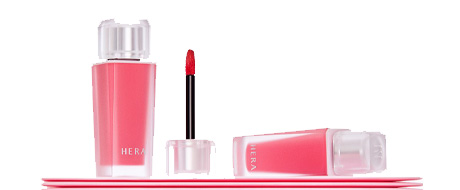
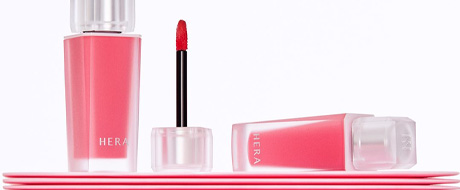
2025/07/07_메인페이지 완료

diff --git a/style/main.css b/style/main.css
@@ -49,7 +49,7 @@ main .title{
     margin-bottom: 50px;
 } /* 제목 */
 main .title h2{ font-weight: 700;}
-main .title a{transform-origin: 30%;transform-origin: 50% 60%;}
+main .title a{transform-origin: 50% 60%;}
 main .title>a>img{width: 100%;}
 main .title a:hover{transform: rotate(90deg);}
 main .best_seller .container .best_title h1{}
@@ -65,6 +65,10 @@ main .best_seller .container .best_menu a{
     width: 100%; padding: 10px;
     color: #C2C2C2;
     border-bottom: 1px solid #C2C2C2;
+}
+main .best_seller .container .best_menu a:nth-child(1){
+    color: #CBA064; font-weight: 600; font-size: 0.76rem;
+    border-bottom: 1px solid #CBA064;
 }
 main .best_seller .container .best_menu a:hover{
     color: #CBA064; font-weight: 600; font-size: 0.76rem;
@@ -131,15 +135,15 @@ main .product_bottom .product{
     margin-right: 10px; 
 }
 main .product_bottom .product:last-child{margin-right: 0;}
-main .product_bottom .product>a{overflow: hidden; margin-bottom: 5px;}
-main .product_bottom .product>a>img{width: 100%; margin-bottom: 5px;}
+main .product_bottom .product>a{overflow: hidden;width: 100%; height: 100%;}
+main .product_bottom .product>a>img{width: 100%; margin-bottom: 15px;}
 main .product_bottom .product>a:hover>img{}
 main .product_bottom .product .product_box{
     height: 109px; width: 100%;/* 아래 상품 내용 */
     position: relative; padding: 0 2px;
 }
 main .product_bottom .product .product_box .product_box_t{
-    margin-bottom: 15px;
+    /* margin-bottom: 10px; */
 }
 main .product_bottom .product .product_box>a:nth-child(2){
     position: absolute; bottom: 0;
@@ -151,7 +155,7 @@ main .product_bottom .product .product_box .product_box_t>a p{
 main .product_bottom .product .product_box_t .product_ts>a{
     display: block; font-weight: 700; text-align: left;
 }
-main .product_bottom .product .product_box{margin-bottom: 10px;}
+main .product_bottom .product .product_box{/* margin-bottom: 10px; */}
 main .product_bottom .product .product_box>a{
     display: block;
     text-align: left;
@@ -176,7 +180,7 @@ main .category{
 }
 main .category .category_name{
     width: calc((100% - 20px) / 3);
-    position: relative;
+    position: relative; overflow: hidden;
 }
 main .category .category_name span{
     position: absolute; top: 0; width: 100%; height: 100%;
@@ -184,10 +188,12 @@ main .category .category_name span{
     display: block; font-size: 1.875rem; font-weight: 700;
     background-repeat: no-repeat;
     background-position: center;
-    background-size: 100%  100%;
+    background-size: cover;
+    transform: scale(1);
+    
 }
 main .category .category_name:hover span{
-    background-size: 110%  110%;
+    transform: scale(1.1); 
 }
 main .category .category_name:hover span:nth-child(2){
     background-color: rgba(0, 0, 0, 0);
@@ -345,25 +351,22 @@ main .instagram .instagram_box .instagram_img .row a{
     margin-bottom: 10px;
     background-repeat: no-repeat;
     background-position: center;
-    background-size: 100% 100%;
-    position: relative;
-
+    background-size: cover;
+    position: relative; overflow: hidden;
 } /* 열 공통 */
 main .instagram .instagram_box .instagram_img .row a span{
     position: absolute; top: 0; left: 0;width: 100%; height: 100%;
     background-color: rgba(0, 0, 0, 0.0);
 } /* 열 공통 */
-main .instagram .instagram_box .instagram_img .row a:hover{
-    background-size: 110% 110%;
-}
+main .instagram .instagram_box .instagram_img .row a:hover{border-radius: 30px;}
 main .instagram .instagram_box .instagram_img .row a:hover span{
-    background-color: rgba(0, 0, 0, 0.3);
+    background-color: rgba(0, 0, 0, 0.2);
+    
 }
 main .instagram .instagram_box .instagram_img .row1{
-    
 } /* 열 개별 */
 main .instagram .instagram_box .instagram_img .row1 a{
-    height: calc((100% - 10px) / 2) ;width: 100%;
+    height: calc((100% - 10px) / 2) ;width: 100%; 
 } /* 열 개별 */
 main .instagram .instagram_box .instagram_img .row1 a:nth-child(1){
     background-image: url(../images/instagram/Instagram_01.jpg);
@@ -373,7 +376,7 @@ main .instagram .instagram_box .instagram_img .row1 a:nth-child(2){
 }
 main .instagram .instagram_box .instagram_img .row2{} /* 열 개별 */
 main .instagram .instagram_box .instagram_img .row2 a{
-    height: calc((100% - 20px) / 3) ;width: 100%;
+    height: calc((100% - 20px) / 3) ;width: 100%; 
 } /* 열 개별 */
 main .instagram .instagram_box .instagram_img .row2 a:nth-child(1){
     background-image: url(../images/instagram/Instagram_03.jpg);

diff --git a/README.md b/README.md
@@ -30,3 +30,9 @@
 ### 2025년 7월 4일
 1. 헤더 다시 만듬
 * 결국 z-index 안먹혀서 높이로 hover사용. 높이로 hover를 줄때 패딩주면 모양 깨지고, max-content같은 상대값으로 주면 애니메이션 먹히지 않으니 px로 지정
+### 2025년 7월 7일
+1. 이미지 수정, 화질 왜깨지는거지, 분명 피그마 그대로 설정했는데
+2. 마우스 올렸을때 이미지 커지는거 수정, 인스타부분은 아무리해도 삐져나가서 포기하고 모서리 둥글기로 수정
+3. 메인은 완료....? 여유있을때 서브페이지 만들기
+* 제작기간 2025/06/25일~2025/07/04일_헤더(다시만든기간)
+* 메인전체기간(헤더 빼고 소요시간) 2025년 6월 30일~2025년 7월 3일(마지막 수정 2025년 7월 7일)
